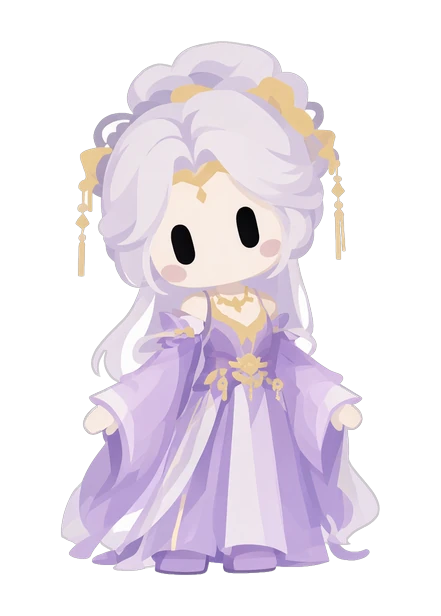
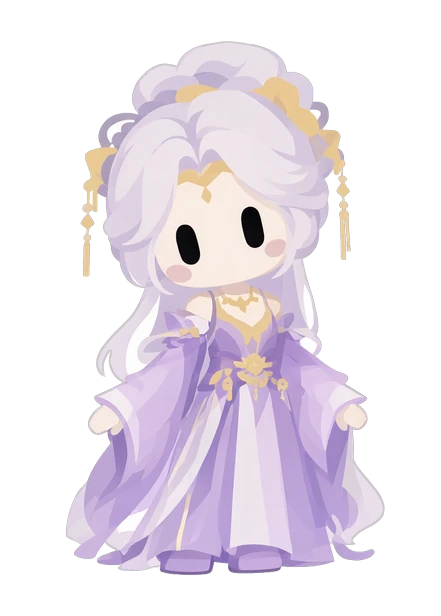
首页缩略图改按视觉质量居中：外接框居中会把带长飘带的立绘推到一边
- 病根是 paste 按外接框居中。007 的 Q 版白发往左拖出 379px（六张里最宽的一条尾巴），
  外接框对称而质量不对称，于是人物本体偏右 29px——其余五张都落在 ±5px 内，所以只有
  它看着歪。
- 新增 paste_x()：把 alpha 质心对到画布中线，再夹一次保证外接框不被推出画布（尾巴太长
  时以不裁切优先，宁可质心偏一点）。六张质心回到 ±0.4px；007 停在 +3.1px，因为它还想
  往左、但发尾离画布左边只剩 4px 了，从 +29 收回 26px。
- 副作用要说清：这条规则是全局的，另外五张各自重定位 ≤5px（001 左 3、002 右 5、
  003 右 2、005 右 2、006 左 3），是同一规则的必然结果而非回归。
- 补 001 / 003 / 007 三张 grok-male 立绘。首页六张卡至此全部有缩略图，不再有占位卡。

diff --git a/site/make_landing_thumbs.py b/site/make_landing_thumbs.py
@@ -81,6 +81,21 @@ def decontaminate(rgb: np.ndarray, alpha: np.ndarray, bg: np.ndarray) -> np.ndar
     return np.clip(out, 0, 255).astype(np.uint8)
 
 
+def paste_x(img: Image.Image) -> int:
+    """横向按「视觉质量」居中，不是按外接框。
+
+    立绘常有单侧的长飘带/长发（007 的白发往左拖出 379px 宽），按 bbox 居中会把人物
+    本体推到右边——外接框是对称的，质量不是。这里把 alpha 质心对到画布中线上，
+    再夹一次保证外接框不被推出画布（尾巴太长时以不裁切优先，宁可质心偏一点）。
+    """
+    a = np.asarray(img)[..., 3] > 60
+    w = img.width
+    xs = np.arange(w, dtype=np.float64)
+    centroid = float((a * xs).sum() / a.sum()) if a.any() else w / 2
+    left = round(CANVAS[0] / 2 - centroid)
+    return max(0, min(left, CANVAS[0] - w))
+
+
 def cutout(path: Path) -> Image.Image:
     src = Image.open(path).convert("RGB")
     rgb = np.asarray(src)
@@ -111,7 +126,7 @@ def cutout(path: Path) -> Image.Image:
     size = (max(round(img.width * scale), 1), max(round(img.height * scale), 1))
     img = img.resize(size, Image.LANCZOS)
     canvas = Image.new("RGBA", CANVAS, (0, 0, 0, 0))
-    canvas.paste(img, ((CANVAS[0] - size[0]) // 2, (CANVAS[1] - size[1]) // 2), img)
+    canvas.paste(img, (paste_x(img), (CANVAS[1] - size[1]) // 2), img)
     return canvas
 
 
